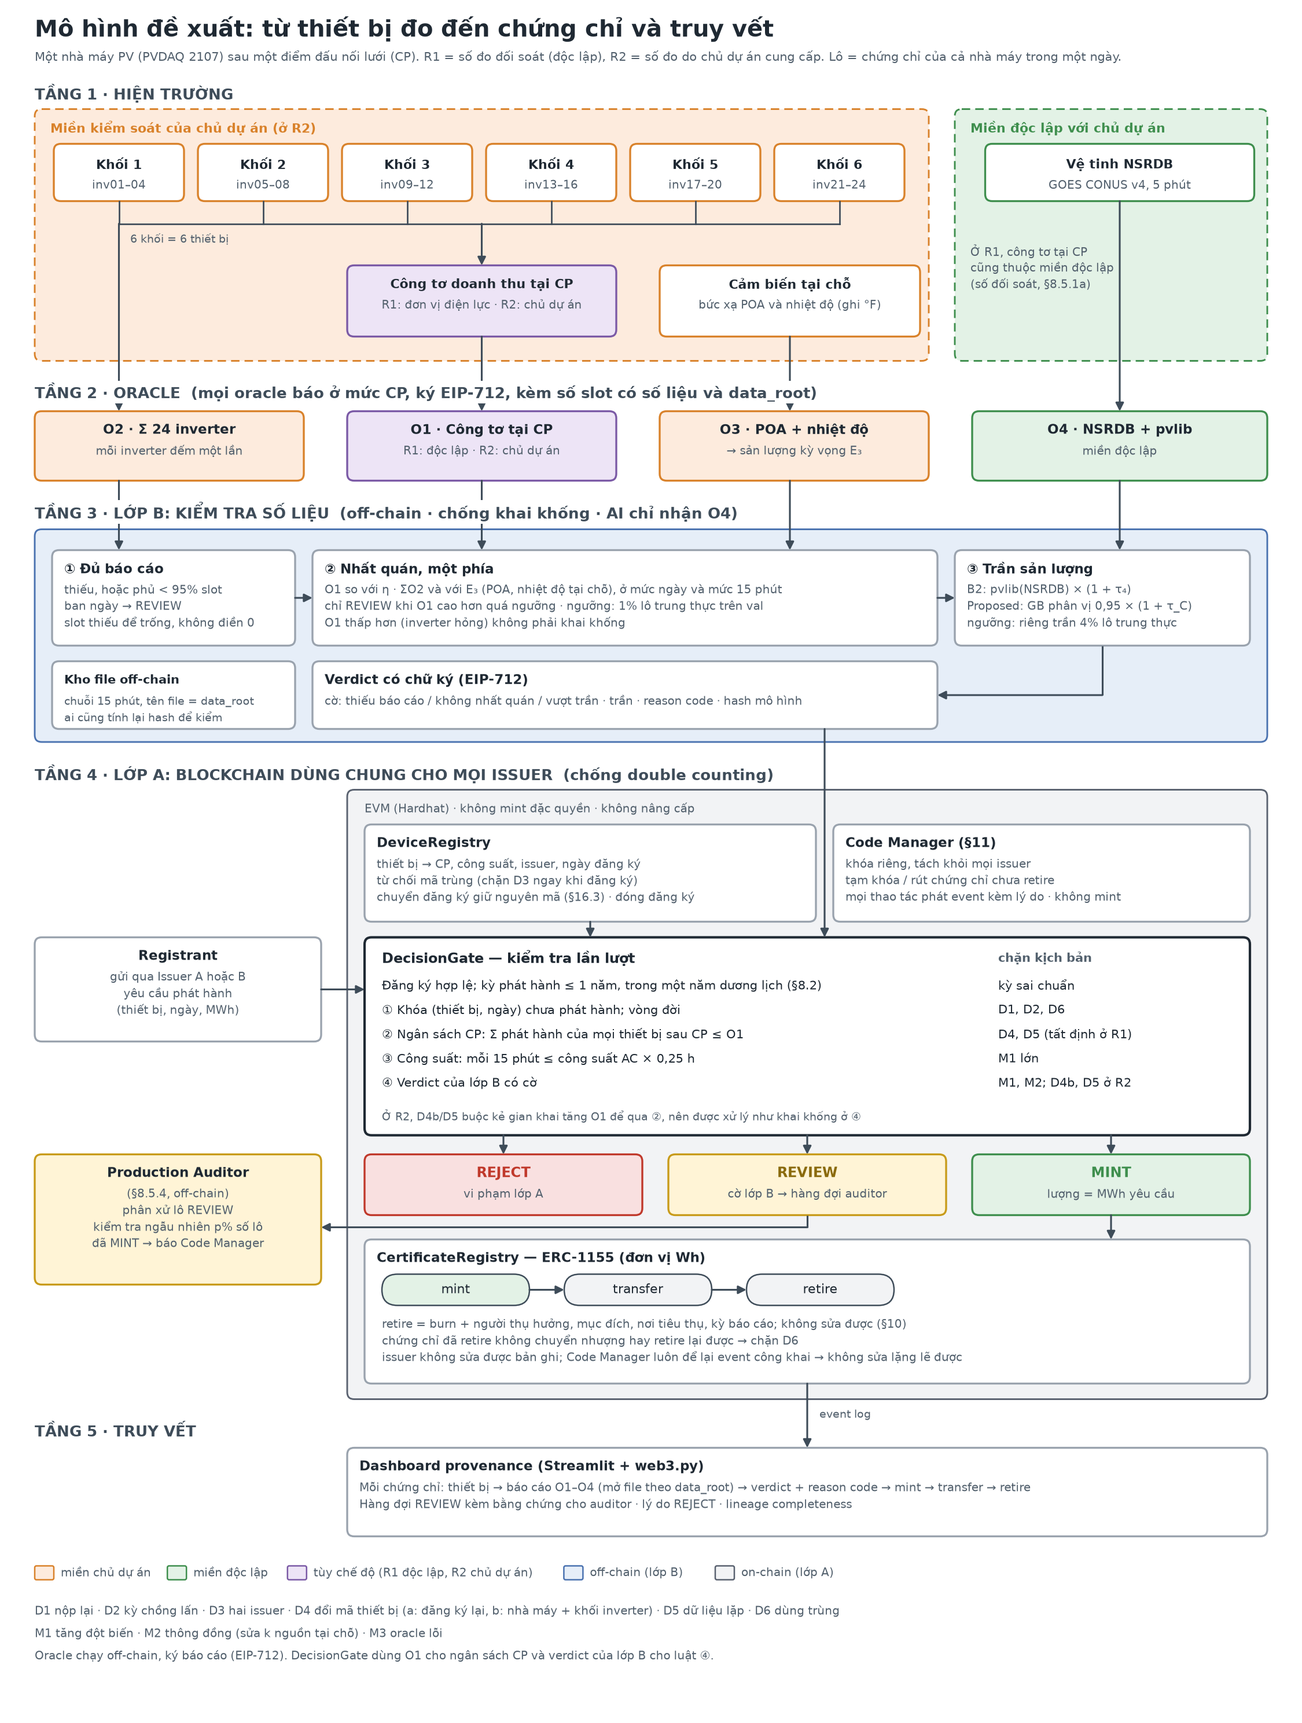
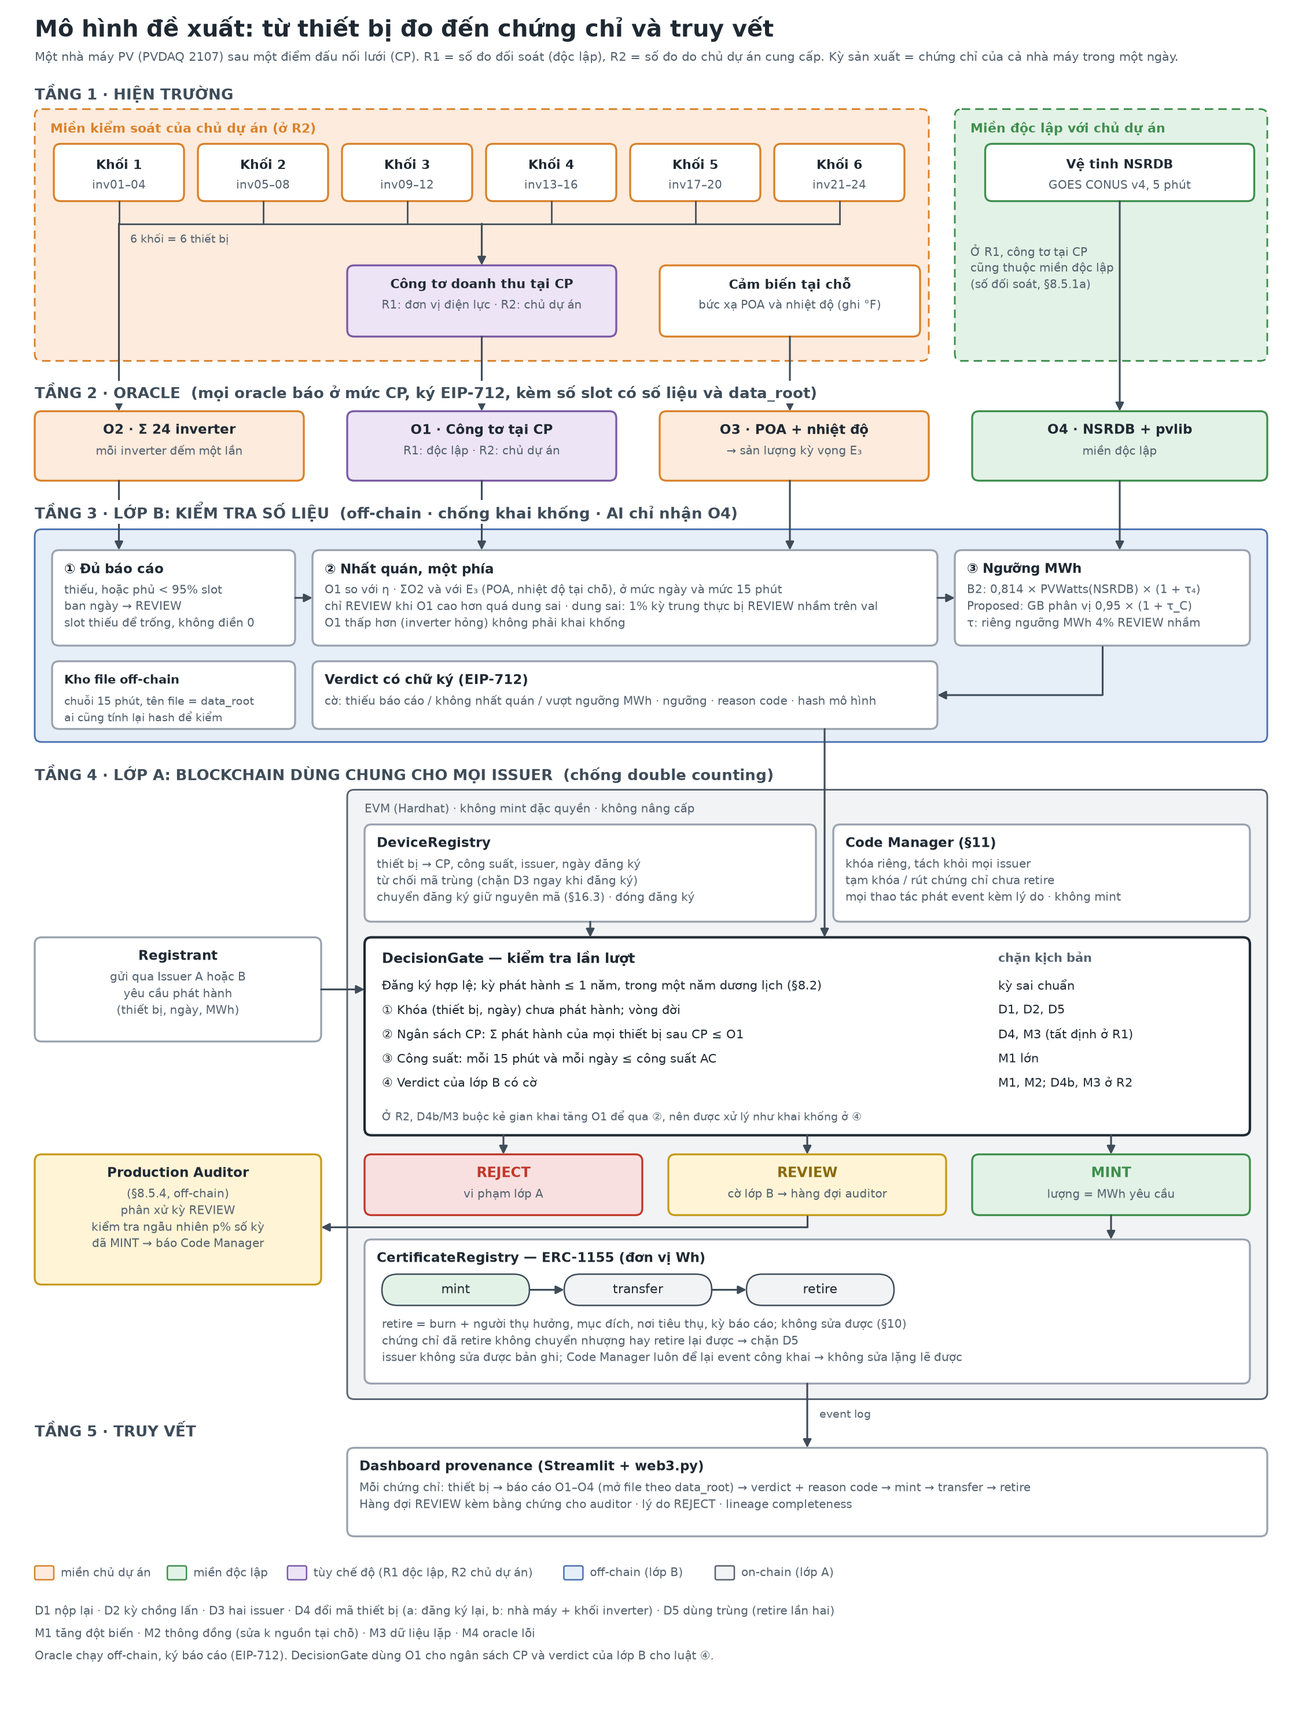
Bao cao cuoi ky: bieu do ket qua, hinh khong con duong dan file va dung ma kich ban cua bao cao
- docs/report/charts.py: ve LMAX theo k, danh doi LMAX - REVIEW nham, theo loai ngay va theo tinh trang inverter
- docs/figures/make_figures.py: bo duong dan file, bo insider, ma kich ban D5/M3/M4 theo bao cao, nguong MWh, ky san xuat

Changed region(s): [[0.7467, 0.3124, 0.9022, 0.3749], [0.0933, 0.6873, 0.1867, 0.7185], [0.4356, 0.5936, 0.4667, 0.6248]]

diff --git a/docs/figures/make_figures.py b/docs/figures/make_figures.py
@@ -99,7 +99,7 @@ def figure_model(out: Path) -> None:
     fig, ax = canvas(W, H)
     text(ax, 40, 34, "Mô hình đề xuất: từ thiết bị đo đến chứng chỉ và truy vết", size=19, bold=True)
     text(ax, 40, 66, "Một nhà máy PV (PVDAQ 2107) sau một điểm đấu nối lưới (CP). R1 = số đo đối soát (độc lập), "
-                     "R2 = số đo do chủ dự án cung cấp. Lô = chứng chỉ của cả nhà máy trong một ngày.",
+                     "R2 = số đo do chủ dự án cung cấp. Kỳ sản xuất = chứng chỉ của cả nhà máy trong một ngày.",
          size=10, color=MUTED)
 
     # Tầng 1
@@ -146,11 +146,11 @@ def figure_model(out: Path) -> None:
         lines=("thiếu, hoặc phủ < 95% slot", "ban ngày → REVIEW", "slot thiếu để trống, không điền 0"))
     box(ax, 360, 634, 720, 110, PLAIN, title="② Nhất quán, một phía",
         lines=("O1 so với η · ΣO2 và với E₃ (POA, nhiệt độ tại chỗ), ở mức ngày và mức 15 phút",
-               "chỉ REVIEW khi O1 cao hơn quá ngưỡng · ngưỡng: 1% lô trung thực trên val",
+               "chỉ REVIEW khi O1 cao hơn quá dung sai · dung sai: 1% kỳ trung thực bị REVIEW nhầm trên val",
                "O1 thấp hơn (inverter hỏng) không phải khai khống"))
-    box(ax, 1100, 634, 340, 110, PLAIN, title="③ Trần sản lượng",
-        lines=("B2: pvlib(NSRDB) × (1 + τ₄)", "Proposed: GB phân vị 0,95 × (1 + τ_C)",
-               "ngưỡng: riêng trần 4% lô trung thực"))
+    box(ax, 1100, 634, 340, 110, PLAIN, title="③ Ngưỡng MWh",
+        lines=("B2: 0,814 × PVWatts(NSRDB) × (1 + τ₄)", "Proposed: GB phân vị 0,95 × (1 + τ_C)",
+               "τ: riêng ngưỡng MWh 4% REVIEW nhầm"))
     arrow(ax, (137, 554), (137, 634))
     arrow(ax, (555, 554), (555, 634))
     arrow(ax, (910, 554), (910, 634))
@@ -160,7 +160,7 @@ def figure_model(out: Path) -> None:
     box(ax, 60, 762, 280, 78, PLAIN, title="Kho file off-chain",
         lines=("chuỗi 15 phút, tên file = data_root", "ai cũng tính lại hash để kiểm"), ts=10.3, fs=9.2)
     box(ax, 360, 762, 720, 78, PLAIN, title="Verdict có chữ ký (EIP-712)",
-        lines=("cờ: thiếu báo cáo / không nhất quán / vượt trần · trần · reason code · hash mô hình",))
+        lines=("cờ: thiếu báo cáo / không nhất quán / vượt ngưỡng MWh · ngưỡng · reason code · hash mô hình",))
     arrow(ax, (1270, 744), (1270, 801), (1080, 801))
 
     # Tầng 4
@@ -178,16 +178,16 @@ def figure_model(out: Path) -> None:
     text(ax, 1150, 1104, "chặn kịch bản", size=10, bold=True, color=MUTED)
     rows = (
         ("Đăng ký hợp lệ; kỳ phát hành ≤ 1 năm, trong một năm dương lịch (§8.2)", "kỳ sai chuẩn"),
-        ("① Khóa (thiết bị, ngày) chưa phát hành; vòng đời", "D1, D2, D6"),
-        ("② Ngân sách CP: Σ phát hành của mọi thiết bị sau CP ≤ O1", "D4, D5 (tất định ở R1)"),
-        ("③ Công suất: mỗi 15 phút ≤ công suất AC × 0,25 h", "M1 lớn"),
-        ("④ Verdict của lớp B có cờ", "M1, M2; D4b, D5 ở R2"),
+        ("① Khóa (thiết bị, ngày) chưa phát hành; vòng đời", "D1, D2, D5"),
+        ("② Ngân sách CP: Σ phát hành của mọi thiết bị sau CP ≤ O1", "D4, M3 (tất định ở R1)"),
+        ("③ Công suất: mỗi 15 phút và mỗi ngày ≤ công suất AC", "M1 lớn"),
+        ("④ Verdict của lớp B có cờ", "M1, M2; D4b, M3 ở R2"),
     )
     for k, (rule, blocks) in enumerate(rows):
         yy = 1136 + k * 28
         text(ax, 440, yy, rule, size=10)
         text(ax, 1150, yy, blocks, size=10)
-    text(ax, 440, 1286, "Ở R2, D4b/D5 buộc kẻ gian khai tăng O1 để qua ②, nên được xử lý như khai khống ở ④",
+    text(ax, 440, 1286, "Ở R2, D4b/M3 buộc kẻ gian khai tăng O1 để qua ②, nên được xử lý như khai khống ở ④",
          size=9.2, color=MUTED)
     arrow(ax, (950, 840), (950, 1080))  # đi giữa DeviceRegistry và Code Manager
     arrow(ax, (680, 1062), (680, 1080))
@@ -210,7 +210,7 @@ def figure_model(out: Path) -> None:
             arrow(ax, (px + 170, 1486), (px + 210, 1486))
     for k, s in enumerate((
             "retire = burn + người thụ hưởng, mục đích, nơi tiêu thụ, kỳ báo cáo; không sửa được (§10)",
-            "chứng chỉ đã retire không chuyển nhượng hay retire lại được → chặn D6",
+            "chứng chỉ đã retire không chuyển nhượng hay retire lại được → chặn D5",
             "issuer không sửa được bản ghi; Code Manager luôn để lại event công khai → không sửa lặng lẽ được")):
         text(ax, 440, 1526 + k * LINE_STEP, s, size=9.6, color=MUTED)
     arrow(ax, (1280, 1400), (1280, 1428))
@@ -219,7 +219,7 @@ def figure_model(out: Path) -> None:
         lines=("gửi qua Issuer A hoặc B", "yêu cầu phát hành", "(thiết bị, ngày, MWh)"))
     arrow(ax, (370, 1140), (420, 1140))
     box(ax, 40, 1330, 330, 150, REVIEW, title="Production Auditor", center=True,
-        lines=("(§8.5.4, off-chain)", "phân xử lô REVIEW", "kiểm tra ngẫu nhiên p% số lô", "đã MINT → báo Code Manager"))
+        lines=("(§8.5.4, off-chain)", "phân xử kỳ REVIEW", "kiểm tra ngẫu nhiên p% số kỳ", "đã MINT → báo Code Manager"))
     arrow(ax, (930, 1400), (930, 1414), (370, 1414))
 
     # Tầng 5
@@ -236,8 +236,8 @@ def figure_model(out: Path) -> None:
                           (OFFCHAIN, "off-chain (lớp B)", False), (ONCHAIN, "on-chain (lớp A)", False)])
     for k, s in enumerate((
             "D1 nộp lại · D2 kỳ chồng lấn · D3 hai issuer · D4 đổi mã thiết bị (a: đăng ký lại, b: nhà máy + khối inverter)"
-            " · D5 dữ liệu lặp · D6 dùng trùng",
-            "M1 tăng đột biến · M2 thông đồng (sửa k nguồn tại chỗ) · M3 oracle lỗi",
+            " · D5 dùng trùng (retire lần hai)",
+            "M1 tăng đột biến · M2 thông đồng (sửa k nguồn tại chỗ) · M3 dữ liệu lặp · M4 oracle lỗi",
             "Oracle chạy off-chain, ký báo cáo (EIP-712). DecisionGate dùng O1 cho ngân sách CP và verdict của lớp B "
             "cho luật ④.")):
         text(ax, 40, 1856 + k * 26, s, size=9.6, color=MUTED)
@@ -249,7 +249,7 @@ def figure_experiment(out: Path) -> None:
     fig, ax = canvas(W, H)
     text(ax, 40, 40, "Sơ đồ thực nghiệm: từ dataset đến kết quả đánh giá", size=20, bold=True)
     text(ax, 40, 76, "Dữ liệu đo là dữ liệu thật. Thiết bị đăng ký, chủ dự án, kẻ gian và Production Auditor đều được "
-                     "mô phỏng. Lô = chứng chỉ của cả nhà máy trong một ngày.", size=10.5, color=MUTED)
+                     "mô phỏng. Kỳ sản xuất = chứng chỉ của cả nhà máy trong một ngày.", size=10.5, color=MUTED)
 
     header(ax, 40, 124, "BƯỚC 1 · DỮ LIỆU GỐC")
     box(ax, 40, 142, 870, 112, PLAIN, title="PVDAQ hệ 2107 (OEDI) · Arbuckle, CA · 893 kW DC", ts=11.5, fs=10,
@@ -275,7 +275,7 @@ def figure_experiment(out: Path) -> None:
             "• Gắn cờ: thiếu dữ liệu, đoạn treo, clipping 30 kW, ban đêm, inverter ngừng phát",
             "• Tạo 6 thiết bị (mỗi khối 4 inverter) sau một CP",
             "• POA từ NSRDB qua pvlib; loại ngày theo chỉ số trời quang (quang / mây vừa / nhiều mây)",
-            "• Script: rec/data/days.py; danh sách ngày bị loại kèm lý do: configs/days_dropped.csv")):
+            "• Danh sách ngày bị loại được lưu kèm lý do")):
         text(ax, 940, 366 + k * 26, s, size=10, color=MUTED)
     arrow(ax, (925, 476), (925, 532))
 
@@ -297,7 +297,7 @@ def figure_experiment(out: Path) -> None:
         lines=("đăng ký thiết bị (CP, công suất, issuer)", "phát hành theo ngày, transfer, retire",
                "L3 chuyển đăng ký (§16.3)", "L4 Production Group (§7.7)"))
     box(ax, 645, 708, 560, 132, ("#FFFFFF", SIM[1]), title="② Tầng tấn công", ts=11,
-        lines=("D1–D6 · insider · M1 · M2 (sửa k nguồn) · M3", "tham số: f, σ, k, α, loại ngày đích",
+        lines=("D1–D5 · M1 · M2 (sửa k nguồn) · M3 · M4", "tham số: f, σ, k, α, loại ngày đích",
                "chế độ R1 / R2 (ai giữ khóa của O1)", "mỗi ngày đủ điều kiện là một ca"))
     box(ax, 1228, 708, 560, 132, ("#FFFFFF", SIM[1]), title="③ Provenance → nhãn ẩn", ts=11, lw=2.0,
         lines=("mỗi yêu cầu ghi nguồn vật lý + khoảng 15 phút", "nhãn: hợp lệ / D / M / L",
@@ -305,19 +305,19 @@ def figure_experiment(out: Path) -> None:
     text(ax, 60, 866, "Đầu ra cho hệ thống: dòng yêu cầu phát hành theo thời gian + báo cáo O1–O4 (đã bị sửa ở k nguồn "
                       "nếu có tấn công). Nhãn ẩn KHÔNG đi vào hệ thống.", size=9.8, color=MUTED)
     text(ax, 60, 894, "Kiểm tra trước khi dùng: mọi bản ghi qua cùng bước định dạng · dòng sạch có DCR = 0 · dấu vết "
-                      "định dạng không phân biệt được (AUC ≈ 0,5)", size=9.8, color=MUTED)
-    text(ax, 60, 920, "· xem tay 20 mẫu mỗi kịch bản · nhãn L5 (inverter ngừng phát) được 2 người kiểm tay 50 ngày",
+                      "cấu trúc (không âm, đúng số slot, không thêm slot thiếu)", size=9.8, color=MUTED)
+    text(ax, 60, 920, "· L5: ngày inverter báo 0 được giữ nguyên trạng (gồm ngừng phát thật và ngừng ghi số liệu)",
          size=9.8, color=MUTED)
 
     header(ax, 40, 990, "BƯỚC 5 · HUẤN LUYỆN VÀ CHỌN NGƯỠNG")
     arrow(ax, (620, 952), (620, 1008))
     text(ax, 632, 976, "train + val", size=9.6, color=MUTED)
-    box(ax, 40, 1008, 820, 225, OFFCHAIN, title="Chỉ dùng lô trung thực của train và val", ts=11.5, fs=10,
+    box(ax, 40, 1008, 820, 225, OFFCHAIN, title="Chỉ dùng kỳ sản xuất trung thực của train và val", ts=11.5, fs=10,
         lines=("1. Đặc trưng chỉ từ O4: POA NSRDB, chỉ số trời quang, nhiệt độ, gió,",
                "    ngày trong năm (không dùng O1–O3)",
                "2. Hồi quy phân vị gradient boosting (q = 0,95), học 2018–2020",
-               "3. Trên 2021: ngưỡng nhất quán → 1% lô trung thực bị REVIEW nhầm",
-               "4. τ_C (Proposed) và τ₄ (pvlib, B2) → riêng trần REVIEW nhầm 4%;",
+               "3. Trên 2021: dung sai nhất quán → 1% kỳ trung thực bị REVIEW nhầm",
+               "4. τ_C (Proposed) và τ₄ (PVWatts, B2) → riêng ngưỡng MWh REVIEW nhầm 4%;",
                "    quét thêm 1%, 2%, 5%, 10% cho mục \"Tỉ lệ REVIEW nhầm\"",
                "5. Khóa mô hình và ngưỡng, ghi hash → dùng ở bước 6",
                "    (không học lại theo năm; báo cáo độ trôi trên test)"))
@@ -335,8 +335,8 @@ def figure_experiment(out: Path) -> None:
     for k, s in enumerate((
             "Hardhat (chain cục bộ): DeviceRegistry, DecisionGate, CertificateRegistry, Code Manager —",
             "cùng contract cho B1, B2, Proposed; lớp B chạy off-chain, test parity với chain",
-            "Production Auditor mô phỏng: phân xử lô REVIEW bằng nhãn thật;",
-            "kiểm tra ngẫu nhiên p ∈ {0, 1%, 5%} số lô đã mint; phát hiện thì Code Manager rút",
+            "Production Auditor mô phỏng: phân xử kỳ REVIEW bằng nhãn thật;",
+            "kiểm tra ngẫu nhiên p ∈ {0, 1%, 5%} số kỳ đã mint; phát hiện thì Code Manager rút",
             "E1 chạy ở R1 · E2 chạy ở R2 với k = 1…3 · 5 seed")):
         text(ax, 920, 1118 + k * 23, s, size=10, color=MUTED)
     arrow(ax, (860, 1120), (900, 1120))
@@ -347,12 +347,12 @@ def figure_experiment(out: Path) -> None:
     box(ax, 40, 1290, 1770, 206, MEASURE, title="So quyết định của từng cấu hình với nhãn ẩn", ts=11.5)
     for k, s in enumerate((
             "• Double counting: DCR, tỉ lệ lọt, exposure window, REJECT nhầm (L1, L3, L4)",
-            "• Kẻ gian thích nghi: LMAX theo k, loại ngày và mức trần (chỉ số chính)",
+            "• Kẻ gian thích nghi: LMAX theo k, loại ngày và mức REVIEW nhầm (chỉ số chính)",
             "• Phát hiện: precision (3 mức tỷ lệ gian lận), recall",
-            "• Tỉ lệ REVIEW nhầm: trần ở 1%, 2%, 4%, 5%, 10% — quy tắc kết luận chốt trước")):
+            "• Tỉ lệ REVIEW nhầm: ngưỡng MWh ở 1%, 2%, 4%, 5%, 10% — quy tắc kết luận chốt trước")):
         text(ax, 60, 1340 + k * 25, s, size=10, color=MUTED)
     for k, s in enumerate((
-            "• Khai khống: OIR · REVIEW nhầm theo L2, L5 · M3 · MWh thật bị giữ tạm",
+            "• Khai khống: OIR · REVIEW nhầm theo L2, L5 · M4 · MWh thật bị giữ tạm",
             "• Kiểm tra ngẫu nhiên: OIR và LMAX khi p ∈ {0, 1%, 5%}",
             "• Chi phí: gas mỗi thao tác và mỗi MWh, độ trễ p50/p95",
             "• Truy vết: lineage completeness (dashboard, kho file theo data_root)")):

diff --git a/docs/report/charts.py b/docs/report/charts.py
@@ -1,0 +1,126 @@
+"""Vẽ biểu đồ cho báo cáo cuối kỳ từ kết quả đã chạy (không chạy lại thí nghiệm).
+
+Chạy: python docs/report/charts.py <thư mục ảnh của báo cáo>
+Đọc artifacts/results/{hybrid,error_analysis}/; ghi chart_lmax_k.png, chart_tradeoff.png, chart_day_type.png,
+chart_inverter.png. Màu theo bảng categorical mặc định của skill dataviz, cố định theo cấu hình.
+"""
+from __future__ import annotations
+
+import json
+import sys
+from pathlib import Path
+
+import matplotlib
+
+matplotlib.use("Agg")
+import matplotlib.pyplot as plt  # noqa: E402
+from matplotlib.ticker import MultipleLocator  # noqa: E402
+import pandas as pd  # noqa: E402
+
+ROOT = Path(__file__).resolve().parents[2]
+RES = ROOT / "artifacts" / "results"
+OUT = Path(sys.argv[1])
+
+COLOR = {"B1": "#2a78d6", "B2": "#eb6834", "Proposed": "#1baf7a", "hybrid": "#eda100"}
+INK, INK2, GRID = "#0b0b0b", "#52514e", "#e4e3df"
+plt.rcParams.update({"font.family": "Times New Roman", "font.size": 11, "axes.edgecolor": INK2,
+                     "axes.labelcolor": INK, "xtick.color": INK2, "ytick.color": INK2, "axes.titlesize": 12})
+
+
+def pct(v: float) -> str:
+    return f"{v * 100:.1f}%".replace(".", ",")
+
+
+def _axes(ax, ylabel: str, step: float | None = None, decimals: int = 0) -> None:
+    ax.set_ylabel(ylabel)
+    if step:
+        ax.yaxis.set_major_locator(MultipleLocator(step))
+    ax.grid(axis="y", color=GRID, linewidth=0.8)
+    ax.set_axisbelow(True)
+    for s in ("top", "right"):
+        ax.spines[s].set_visible(False)
+    ax.yaxis.set_major_formatter(lambda v, _: f"{v * 100:.{decimals}f}%".replace(".", ","))
+
+
+def grouped(ax, groups: list[str], series: dict[str, list[float]], label_every: bool = True) -> None:
+    n = len(series)
+    w = 0.8 / n
+    for i, (name, vals) in enumerate(series.items()):
+        xs = [g + (i - (n - 1) / 2) * w for g in range(len(groups))]
+        bars = ax.bar(xs, vals, w * 0.92, color=COLOR[name], label=name if name != "hybrid" else "hybrid (hậu kiểm)",
+                      edgecolor="white", linewidth=1)
+        if label_every:
+            for b, v in zip(bars, vals):
+                ax.annotate(pct(v), (b.get_x() + b.get_width() / 2, v), xytext=(0, 2), textcoords="offset points",
+                            ha="center", va="bottom", fontsize=8.5, color=INK)
+    ax.set_xticks(range(len(groups)), groups)
+    ax.legend(frameon=False, ncol=n, loc="upper left", fontsize=10)
+
+
+def main() -> None:
+    OUT.mkdir(parents=True, exist_ok=True)
+    test = json.loads((RES / "hybrid" / "test.json").read_text(encoding="utf-8"))["test"]
+    b1 = 0.15422  # B1 không có lớp B, LMAX bằng nhau ở mọi k (E2b, bản đăng ký trước)
+
+    # 1. LMAX theo k
+    fig, ax = plt.subplots(figsize=(7.2, 3.4))
+    groups = ["k = 1", "k = 2", "k = 3"]
+    series = {"B1": [b1] * 3}
+    for c in ("B2", "Proposed", "hybrid"):
+        series[c] = [test[c][f"lmax_k{k}"] for k in (1, 2, 3)]
+    grouped(ax, groups, series)
+    _axes(ax, "LMAX", 0.03)
+    ax.set_ylim(0, 0.19)
+    ax.set_xlabel("Số nguồn đo tại chỗ kẻ gian sửa được")
+    fig.tight_layout()
+    fig.savefig(OUT / "chart_lmax_k.png", dpi=220)
+    plt.close(fig)
+
+    # 2. Đánh đổi: LMAX (k = 3) theo tỉ lệ REVIEW nhầm đo trên test, mỗi điểm là một mức q chọn trên validation
+    sw = pd.read_csv(RES / "hybrid" / "sweep_test.csv")
+    fig, ax = plt.subplots(figsize=(7.2, 3.8))
+    for c in ("B2", "Proposed", "hybrid"):
+        d = sw[sw["config"] == c].sort_values("review_rate")
+        ax.plot(d["review_rate"], d["lmax_k3"], color=COLOR[c], linewidth=2, marker="o", markersize=6,
+                markeredgecolor="white", markeredgewidth=1.2, label=c if c != "hybrid" else "hybrid (hậu kiểm)")
+        last = d.iloc[-1]
+        ax.annotate(c, (last["review_rate"], last["lmax_k3"]), xytext=(6, 0), textcoords="offset points",
+                    va="center", fontsize=10, color=INK)
+    _axes(ax, "LMAX ở k = 3", 0.005, 1)
+    ax.xaxis.set_major_formatter(lambda v, _: f"{v * 100:.0f}%")
+    ax.set_xlabel("Tỉ lệ kỳ sản xuất trung thực bị REVIEW nhầm (đo trên test)")
+    ax.grid(axis="x", color=GRID, linewidth=0.8)
+    ax.legend(frameon=False, loc="upper right", fontsize=10)
+    ax.set_xlim(0.02, 0.165)
+    fig.tight_layout()
+    fig.savefig(OUT / "chart_tradeoff.png", dpi=220)
+    plt.close(fig)
+
+    # 3. LMAX ở k = 3 theo loại ngày
+    fig, ax = plt.subplots(figsize=(7.2, 3.4))
+    types = [("clear", "Quang"), ("partly", "Mây vừa"), ("cloudy", "Nhiều mây")]
+    series = {c: [test[c][f"lmax_k3_{t}"] for t, _ in types] for c in ("B2", "Proposed", "hybrid")}
+    grouped(ax, [name for _, name in types], series)
+    _axes(ax, "LMAX ở k = 3", 0.1)
+    ax.set_ylim(0, 0.68)
+    fig.tight_layout()
+    fig.savefig(OUT / "chart_day_type.png", dpi=220)
+    plt.close(fig)
+
+    # 4. Theo tình trạng inverter (test): LMAX ở k = 3
+    bo = pd.read_csv(RES / "error_analysis" / "by_outage.csv")
+    bo = bo[bo["split"] == "test"].set_index("outage_kind")
+    kinds = [("không", "Bình thường"), ("ngừng phát", "Ngừng phát thật"), ("ngừng ghi", "Ngừng ghi số liệu")]
+    fig, ax = plt.subplots(figsize=(7.2, 3.4))
+    series = {c: [bo.loc[k, f"lmax_{c}"] for k, _ in kinds] for c in ("B2", "Proposed")}
+    grouped(ax, [f"{name}\n({int(bo.loc[k, 'days'])} ngày)" for k, name in kinds], series)
+    _axes(ax, "LMAX ở k = 3", 0.05)
+    ax.set_ylim(0, 0.3)
+    fig.tight_layout()
+    fig.savefig(OUT / "chart_inverter.png", dpi=220)
+    plt.close(fig)
+    print("ok", OUT)
+
+
+if __name__ == "__main__":
+    main()
